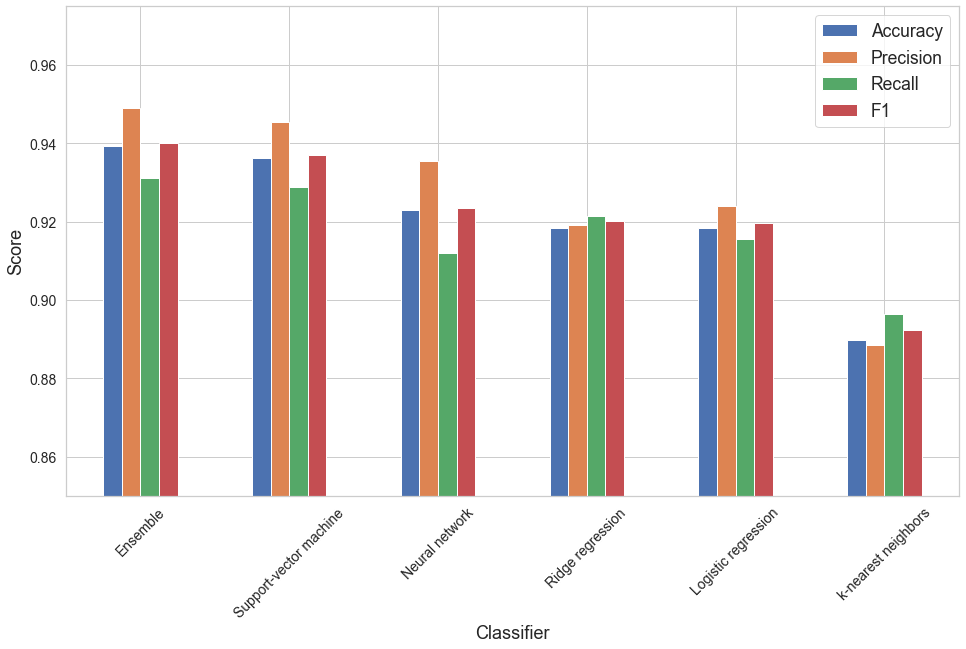
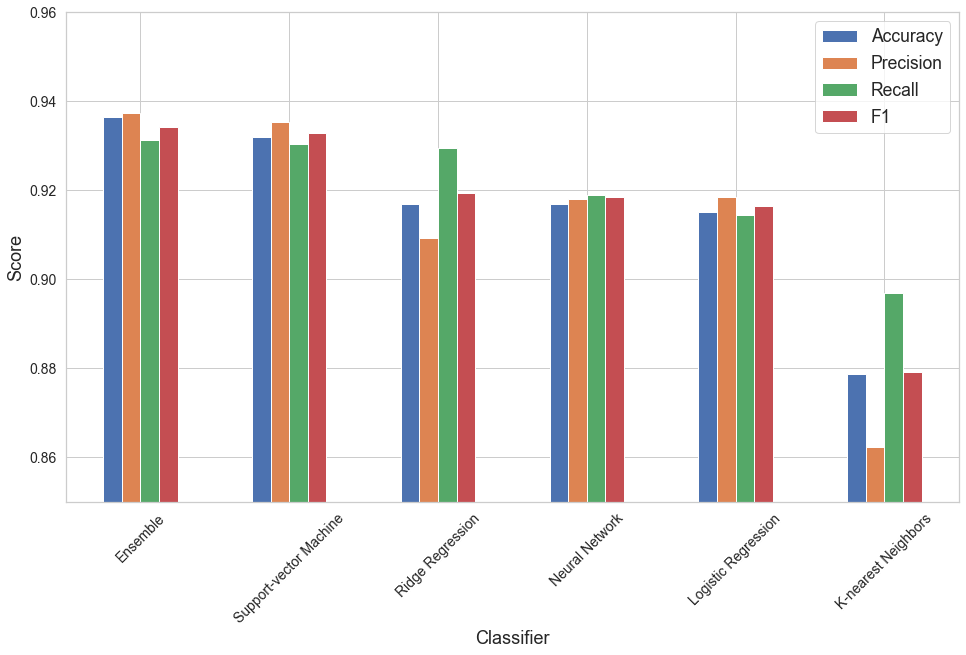
Translated theoretical framework, updated results-graph to test set data, fixed some spelling errors

diff --git a/sections/2. theoretical framework.tex b/sections/2. theoretical framework.tex
@@ -5,17 +5,70 @@
 
 \section{Theoretical Framework}
 \subsection{Filter bubbles on social media}
-Wanneer een gebruiker van een website zich bevindt in een eigen informatie-‘universum’, waarin de content en aanbevelingen inspelen op diens bestaande meningen en overtuigingen, zit deze in een filterbubbel \citep{pariser2011filter}. Gebruikers zijn alleen in zulke bubbels; iedereen heeft een eigen, unieke bubbel. Er kan overlap zijn tussen de bubbels van verschillende personen, maar elke bubbel is precies aangepast op het individu. In traditionele media kan een persoon ervoor \textit{kiezen} welk type meningen deze wil aanhoren, door bijvoorbeeld naar een specifieke nieuwszender te kijken. Online is deze keuze niet expliciet, op basis van het gedrag van de gebruiker wordt deze automatisch, zonder toestemming, een bepaald filter voorgelegd. 
+Whenever the user of a website finds themselves in their own information universe, in which the content
+and recommendations play into the user's preexisting opinions and believes, they are in a filter bubble
+\citep{pariser2011filter}. Users are by themselves in such bubbles and each bubble is unique. Different
+bubbles can have overlap, but each bubble is precisely tuned to an individual. In traditional media, a
+user makes a conscious \textit{choice} what types of opinions they want to hear, for example by choosing
+to watch a broadcaster with a specific political opinion. Online this decision is implicit: based on the
+user's behavior, their content is filtered automatically by an algorithm, without explicit consent. 
+
+% Bovenstaande tekst misschien naar de inleiding^
 
 \subsection{Filter bubbles on YouTube}
-Uit voorgaand onderzoek is gebleken dat het YouTube-algoritme dat verantwoordelijk is voor het geven van aanbevelingen gevoelig is voor het ontstaan van dergelijke filterbubbels. \citet{roth2020tubes} zijn tot deze conclusie gekomen nadat zij YouTube-aanbevelingen op basis van content hebben geanalyseerd. Op YouTube zijn er twee soorten aanbevelingen: aanbevelingen gebaseerd op het kijkgedrag van de gebruiker en aanbevelingen gebaseerd op de content van de huidige video. In hun onderzoek hebben Roth et al. de focus gelegd op aanbevelingen op basis van content. Hieruit bleek dat dergelijke aanbevelingen snel konden leiden tot lage diversiteit (oftewel: filterbubbels) en dat deze bubbels sneller optraden bij video’s met meer weergaven; des te meer weergaven een video had, des te minder divers de gerelateerde aanbevelingen. Zij speculeren dat dit verklaard kan worden door het feit dat YouTube meer informatie opslaat over video’s met veel weergaven, waardoor het algoritme betere aanbevelingen kan geven. Ook voorspellen zij dat, naarmate het algoritme meer informatie verkrijgt over de gebruiker, het deze informatie kan combineren met de informatie over video’s, wat zou leiden tot een nog sterkere beperking van de aanbevelingen. Volgens \citet{ledwich2019algorithmic} is het kijkgedrag van de gebruiker verantwoordelijk voor ongeveer 70\% van de aanbevelingen; kijkgedrag zou daarom veel invloed kunnen hebben op het ontstaan van filterbubbels op YouTube.  
+Previous research has found that YouTube's recommendation algorithm runs the risk of creating filter
+bubbles. \citet{roth2020tubes} came to this conclusion after they analysed YouTube recommendations based
+on content. YouTube has two distinct types of recommendations: recommendations based on the user's
+viewing behavior and recommendations based on the content of the current video a user is watching. In
+their research, Roth et al. focused predominantly on recommendations based on content. They found that
+such recommendations could quickly lead to a decrease in information diversity (read: filter bubbles)
+and that this decrease happened sooner for videos with a lot of views; the more views a video had, the
+less diverse its related recommendations. They speculate that this can be explained by the fact that
+YouTube tends to store more information about videos with a high view count, allowing the algorithm to
+give better recommendations for such videos. They also predict that, whenever the algorithm has more
+information about a user to its disposal, it can combine said information with the information it has
+about a certain video, which could lead to an even stronger limitation of recommendations. According to
+\citet{ledwich2019algorithmic}, a user's viewing behavior is responsible for approximately 70\% of their
+recommendations; this behavior could therefore play a big role in the creation of filter bubbles on
+YouTube. 
 
 \subsection{Conspiracy content on YouTube}
-YouTube heeft beperkte regels tegen het verspreiden van complottheorieën (YouTube, 2021). Zolang de content niet direct aanzet tot geweld of de volksgezondheid in gevaar brengt (denk hierbij aan misinformatie over het COVID-19-virus), mogen ook objectief onjuiste ideeën worden verspreid via YouTube. Dit zorgt ervoor dat er op YouTube meerdere complotgemeenschappen huisvesten. Complottheorieën als ‘de aarde is plat en de overheid probeert dat te verstoppen’, ‘de wereld zal binnenkort vergaan en alleen aanhangers van een bepaalde religie zullen overleven’, en ‘de wereld wordt geregeerd door kannibalistische, satanische pedofielen’ (beter bekend als QAnon), worden op de website door miljoenen mensen bekeken \citep{paolillo2018flat, miller2021characterizing}. Hoewel dergelijke video’s schadelijk kunnen zijn voor de maatschappij, worden deze door YouTube niet onderdrukt. Als een gebruiker interesse toont in zulke video’s, zal de gebruiker soortgelijke video’s aanbevolen krijgen, ook als YouTube ervan op de hoogte is dat het mogelijk schadelijke content is \citep{ledwich2019algorithmic}.
+YouTube has limited rules with regards to the spread of conspiracy videos \citep{youtube_2021}. As long
+as the content does not directly incite violence or endangers the public health (e.g. misinformation
+about the COVID-19 virus), objectively incorrect ideas are allowed to be shared on YouTube. As a result,
+YouTube is a home to multiple conspiracy communities. Conspiracy theories such as 'the earth is flat and
+the government is hiding it from us', 'the world will end soon and only followers of this specific
+religion will be spared', and 'the world is ruled by cannibalistic, satanic pedophiles' (better known as
+QAnon) gather millions of views on the platform \citep{paolillo2018flat, miller2021characterizing}.
+Though such videos could be considered harmful to society, they are not suppressed by YouTube. Whenever
+a user shows interest in this type of content, they will be recommended similar videos, even when
+YouTube is aware of their harmful nature \citep{ledwich2019algorithmic, maack_2019}.
 
 \subsection{The YouTube algorithm}
-Het YouTube-algoritme probeert aanbevelingen te doen op basis van de verwachtte kijktijd (watch time) en niet op basis van de kans dat een gebruiker op een video klikt \citep{covington2016deep}. Dit is gedaan om misleidende video’s (beter bekend als ‘clickbait’) een lagere kans te geven om aanbevolen te worden. Maar, het verkrijgen van feedback over een video op basis van kijktijd heeft te kampen met veel ruis, waardoor het lastig is om tevredenheid te meten. Zo blijkt dat, ook wanneer een persoon een video interessant vindt, deze de video vaak niet helemaal afkijkt. Gemiddeld kijken personen ongeveer 50-60\% van een video voordat zij hiervan wegklikken (Park et al., 2016). Echter, video’s die goed gestructureerd, of erg interessant zijn, kunnen dit percentage omhoog halen tot 70-80\%, waarin ongeveer de helft van de kijkers de video zelfs volledig afkijkt (Lang, 2018). Nadat een video is afgekeken, is er een 41.6\% kans dat de gebruiker een aanbevolen video zal bekijken. Welke video dit wordt, volgt een Zipf’s verdeling ($\alpha = 0.78$) op basis van de positie in de lijst van aanbevelingen \citep{zhou2010impact}. 
+The YouTube algorithm tries to recommend videos based on the expected watch time they will generate,
+rather than the probability of a user clicking on them \citep{covington2016deep}. This decision was made
+in order to decrease the likelihood of misleading videos (also known as \textit{clickbait}) being
+recommended. However, gathering feedback about videos through their watch time can cause a lot of noise,
+making it difficult to measure user satisfaction. As it turns out, even when a users enjoy a certain
+video, they are unlikely to watch it completely. On average, users watch around 50-60\% of a video
+before they switch it off \citep{park2016data}. Though, videos that are well-structured, or especially
+interesting, can improve this percentage up till 70-80\%, where nearly half of the viewers actually
+finish the video in its entirety \citep{lang_2018}. After a video has been watched, there is a 41.6\%
+chance that the user decides to watch a recommended video. Which recommendation the user will choose,
+follows a Zipf-distribution ($\alpha = 0.78$) with regards to the position of the video in the list of
+recommendations \citep{zhou2010impact}. 
 
-In voorgaand onderzoek is er dus vernomen dat filterbubbels zich voordoen op YouTube en dat het algoritme geneigd is om complot-content aan te bevelen. Ook wordt er gespeculeerd dat het algoritme beslissingen maakt op basis van het kijkgedrag van gebruikers en dit koppelt aan de content van video's. Om de gebruiker zo lang mogelijk op de website te houden, wat winstgevend is voor YouTube, probeert het algoritme video's aan te bevelen die de gebruiker waarschijnlijk lang zal kijken, welke soms schadelijke content bevatten. Op basis van deze informatie kan er dus verder onderzoek worden gedaan naar het ontstaan van filterbubbels en het verspreiden van complot-content op YouTube. Zo is er nog weinig bekend over hoe snel de aanbevelingen van een gebruiker zich aanpassen, terwijl dit erg belangrijk kan zijn in het ontstaan van zogeheten 'rabbit holes'. Ook is er nog geen onderzoek gedaan naar hoe het soort video invloed heeft op het algoritme. Wanneer een gebruiker veel aanbevelingen kijkt, zou dit mogelijk gezien kunnen worden als impliciete positieve feedback, waardoor er een sneeuwbaleffect kan ontstaan. 
-
+All in all, previous research has found that YouTube's algorithm is sensitive to filter bubbles and that
+it has a tendency to recommend conspiracy content. It is also speculated that the algorithm makes
+decisions based on the user's viewing behavior, which it combines with the content of videos. In order
+to keep the user on the website as long as possible, which is profitable for YouTube, the algorithm
+prefers recommending videos that it suspects the user will watch for a longer period of time, even when
+they may contain harmful content. Based on this information, further research can be done on the
+origination of filter bubbles and the spread of conspiracy content on YouTube. For example, little is
+known about how quickly a user's recommendations adapt to a user's behavior, even though this is a
+critical aspect when it comes to the creation of so-called \textit{rabbit holes}. Furthermore, no
+research has been done into the way different types of videos (recommendations in different locations,
+random videos, etc.) influence YouTube's algorithm. For example, whenever a user primarily watches
+recommended videos, the algorithm could see this as implicit positive feedback, which could cause a
+snowball-effect. 
 \end{document}

diff --git a/sections/3. methodology.tex b/sections/3. methodology.tex
@@ -14,7 +14,7 @@ To answer the research question, it is necessary to determine which YouTube vide
 conspiracy videos. Considering the large amount of videos getting recommended, determining each video
 manually is simply not possible. There are two possible ways to solve this problem. Firstly, there is a
 dataset which contains nearly 7000 YouTube channels that have been manually labeled based on their
-politcal view - almost 2500 of which were labeled as conspiracy channels \citep{ledwich2019algorithmic};
+politcal view - almost 3000 of which were labeled as conspiracy channels \citep{ledwich2019algorithmic};
 whenever a video is made by one such channel, it can be considered a conspiracy video. However, due to
 the enormous amount of existing YouTube channels, the odds of a video being uploaded by a channel that
 is not present in this dataset are very large. For those videos, a supervised machine learning
@@ -34,30 +34,31 @@ dataset contains 65.683 unique YouTube videos, 22.156 of which are considered as
 However, this dataset was not yet suitable for machine learning, as the data was still messy. Therefore,
 multiple steps were taken in order to clean the data. Firstly, the two classes (conspiracy and
 non-conspiracy) were balanced, so that the classifier would not develop a bias for non-conspiracy
-videos. Rather than opting for balancing the two classes through the use of class-weights, the choice
+videos. Rather than opting for balancing the two classes through the use of class-weights (a technique
+where weights are attributed to classes, thereby telling the classifier that getting a prediction
+correct for a certain, underrepresented class is more important), the choice
 was made to under-sample the data in order to equalize both classes (both containing 22.156 videos, for
-a total of 44.312 videos) \citep{lemaitre2017imbalanced}. As there was plenty of data in the dataset,
-under-sampling was more convenient than implementing class-weights: a technique where weights are
-attributed to classes, thereby telling the classifier that getting a prediction correct for a certain,
-underrepresented class is more important \citep{sun2006boosting}. After both classes had been balanced,
-the text for each video had to be translated into English. As the original dataset by
-\citet{ledwich2019algorithmic} also contained channels by non-English speakers, these videos had to be
-automatically translated. Then, a few common cleaning methods were applied: all text was converted to
+a total of 44.312 videos) \citep{lemaitre2017imbalanced, sun2006boosting}. As there was plenty of data
+in the dataset, under-sampling was more convenient than implementing class-weights. After both classes
+had been balanced, the text for each video had to be translated into English. Since the original dataset
+by \citet{ledwich2019algorithmic} also contained channels by non-English speakers, these videos had to
+be automatically translated. Then, a few common cleaning methods were applied: all text was converted to
 lowercase, after which special characters, such as emojis were removed, whereafter stop words were
 removed and all words were stemmed using the porter stemmer \citep{karaa2013new}. Finally, each video
 was TF-IDF vectorized to allow the classifiers to function.
 
 \subsubsection{Performance optimization}
 After splitting the dataset into a train, test, and validation set, the hyperparameters of each
-algorithm were tuned to get the optimal performance. Performance was measures using four distinct
-metrics: the accuracy, which shows the share of correct predictions; the recall, which shows what
-fraction of truly positive samples were correctly labeled as such; the precision, which shows what part
-of the positive predictions were correct; and the F1-score, which is the harmonic mean of the recall and
-precision \citep{sokolova2009systematic}. For each classifier, different configurations of
-hyperparameters (such as the kernel and the penalty-parameter) were systemically tested - each possible
-combination was tried. By saving the performance measures for every such configuration, for every
-classifier, each individual classifiers could be optimized. By then comparing the performance of every
-optimally configured classifier, the best-performing classifier could be chosen. 
+algorithm were tuned to get the optimal performance \citep{feurer2019hyperparameter}. Performance was
+measured using four distinct metrics: the accuracy, which shows the share of correct predictions; the
+recall, which shows what fraction of truly positive samples were correctly labeled as such; the
+precision, which shows what part of the positive predictions were correct; and the F1-score, which is
+the harmonic mean of the recall and precision \citep{sokolova2009systematic}. For each classifier,
+different configurations of hyperparameters (such as the kernel and the penalty-parameter) were
+systemically tested - each possible combination was tried. By saving the performance measures for every
+such configuration, for every classifier, each individual classifiers could be optimized. By then
+comparing the performance of every optimally configured classifier, the best-performing classifier could
+be chosen. 
 
 Additionally, the added value of using a machine learning ensemble was measured. By having each
 classifier make a prediction for all videos in the dataset, a new dataset was created, wherein the

diff --git a/sections/4. results.tex b/sections/4. results.tex
@@ -19,18 +19,18 @@
   \label{fig:ML_scores}
 \end{figure}
 
-The hyperparameter tuning lead to impressive scores for all classifiers. The best-performing classifier
-is the support-vector machine making use of the Radial Basis Function (RBF) kernel and a penalty
-parameter (C-value) of 10. The SVM is closely followed by the neural network using the identity
-activation function, with 10 hidden layers of 10 neurons. In third place, there is a two-way tie for
-accuracy between ridge regression with a sparse-cg solver and penalty (alpha) value of 0.1, and logistic
-regression with an L2 penalty, a penalty (C) value of 20 and a newton-cg solver. However, ridge
-regression has a slightly better F1-score, though this difference is neglectable (0.9202 as opposed to
-0.9197). The worst-performing classifier is also the simplest of the bunch: the k-nearest neighbors
-classifier (K=1). Although its performance is still formidable, it does substantially worse than the
-others. An overview of all metrics for each classifier can be seen in figure \ref{fig:ML_scores}. The
-ten best-performing configurations for each classifier can be found in appendix
-\ref{appendix:Hyperparameters}.
+The hyperparameter tuning lead to impressive scores for all classifiers. When making prediction for the
+test set, the best-performing classifier is the support-vector machine making use of the Radial Basis
+Function (RBF) kernel and a penalty parameter (C-value) of 10. In second place, there is a two-way tie
+for accuracy between ridge regression with a sparse-cg solver and penalty (alpha) value of 0.1, and the
+neural network using the identity activation function with 10 hidden layers of 10 neurons. However,
+ridge regression has a slightly better F1-score, though this difference is neglectable (0.9193 as
+opposed to 0.9184). The neural network and ridge regression are closely followed by logistic regression
+with an L2 penalty, a penalty (C) value of 20 and a newton-cg solver. The worst-performing classifier is
+also the simplest of the bunch: the k-nearest neighbors classifier (K=1). Although its performance is
+still formidable, it does substantially worse than the others. An overview of all metrics for each
+classifier can be seen in figure \ref{fig:ML_scores}. The ten best-performing configurations for each
+classifier can be found in appendix \ref{appendix:Hyperparameters}.
 
 Noteworthy is the fact that the optimal ensemble actually outperforms the support-vector machine by a
 slight margin. This ensemble, consisting of the SVM, the neural network, and surprisingly, the k-nearest

diff --git a/main.tex b/main.tex
@@ -1,13 +1,3 @@
-%%%%%%%%%%%%%%%%%%%%%%%%%%%%%%
-% LATEX-TEMPLATE GENERIEK
-% Voor readme en meest recente versie, zie
-% https://gitlab-fnwi.uva.nl/informatica/LaTeX-template.git
-%%%%%%%%%%%%%%%%%%%%%%%%%%%%%%
-
-%-------------------------------------------------------------------------------
-%	PACKAGES EN DOCUMENT CONFIGURATIE
-%-------------------------------------------------------------------------------
-
 \documentclass{uva-inf-article}
 
 \usepackage[utf8]{inputenc}
@@ -33,7 +23,7 @@
 
 \assignment{Bachelor Thesis}
 \title{Conspiracy videos on YouTube}
-\authors{Roan Schellingerhout (12399779)}
+\authors{Roan Schellingerhout}
 \docent{Dr. Maarten Marx}
 \date{\today}
 
